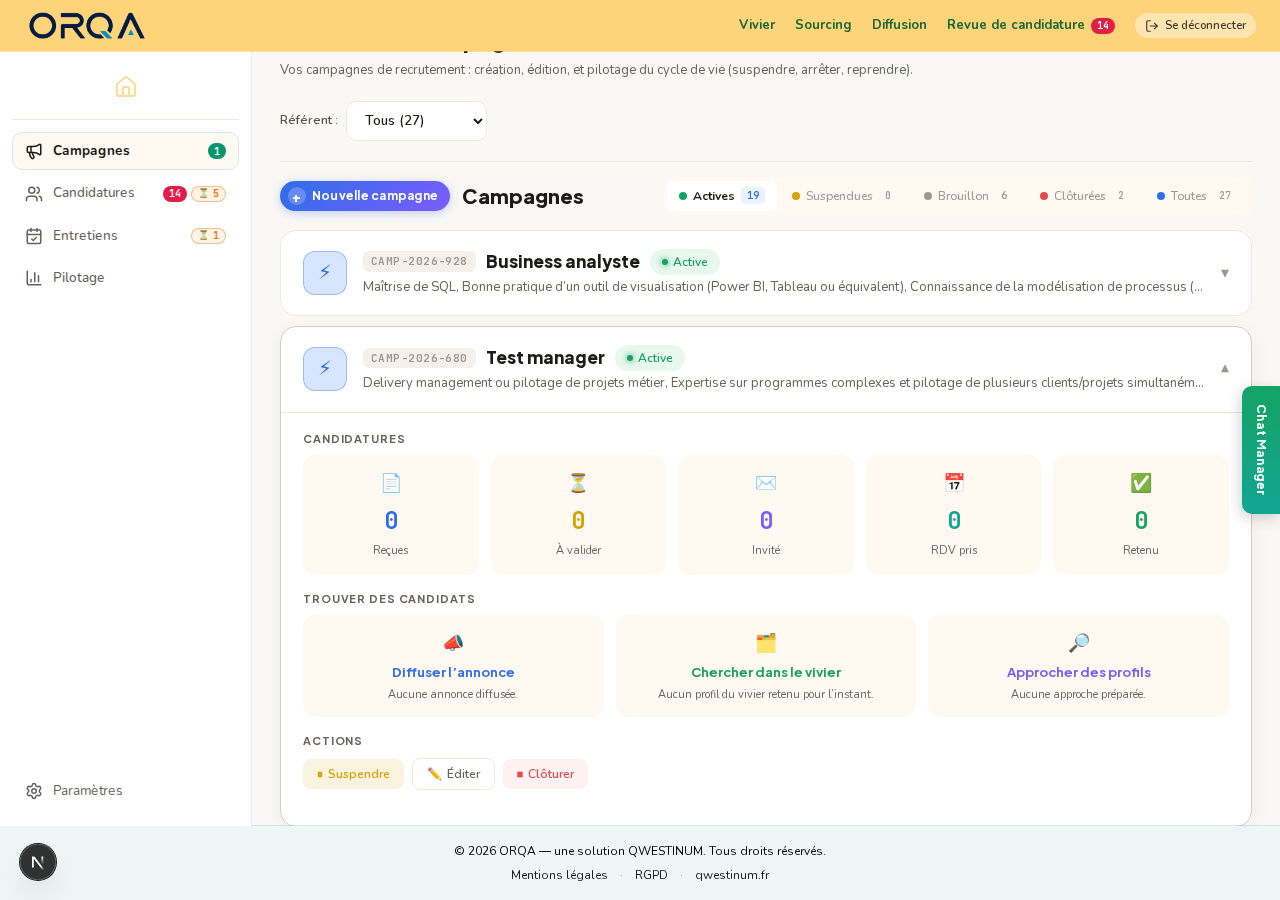
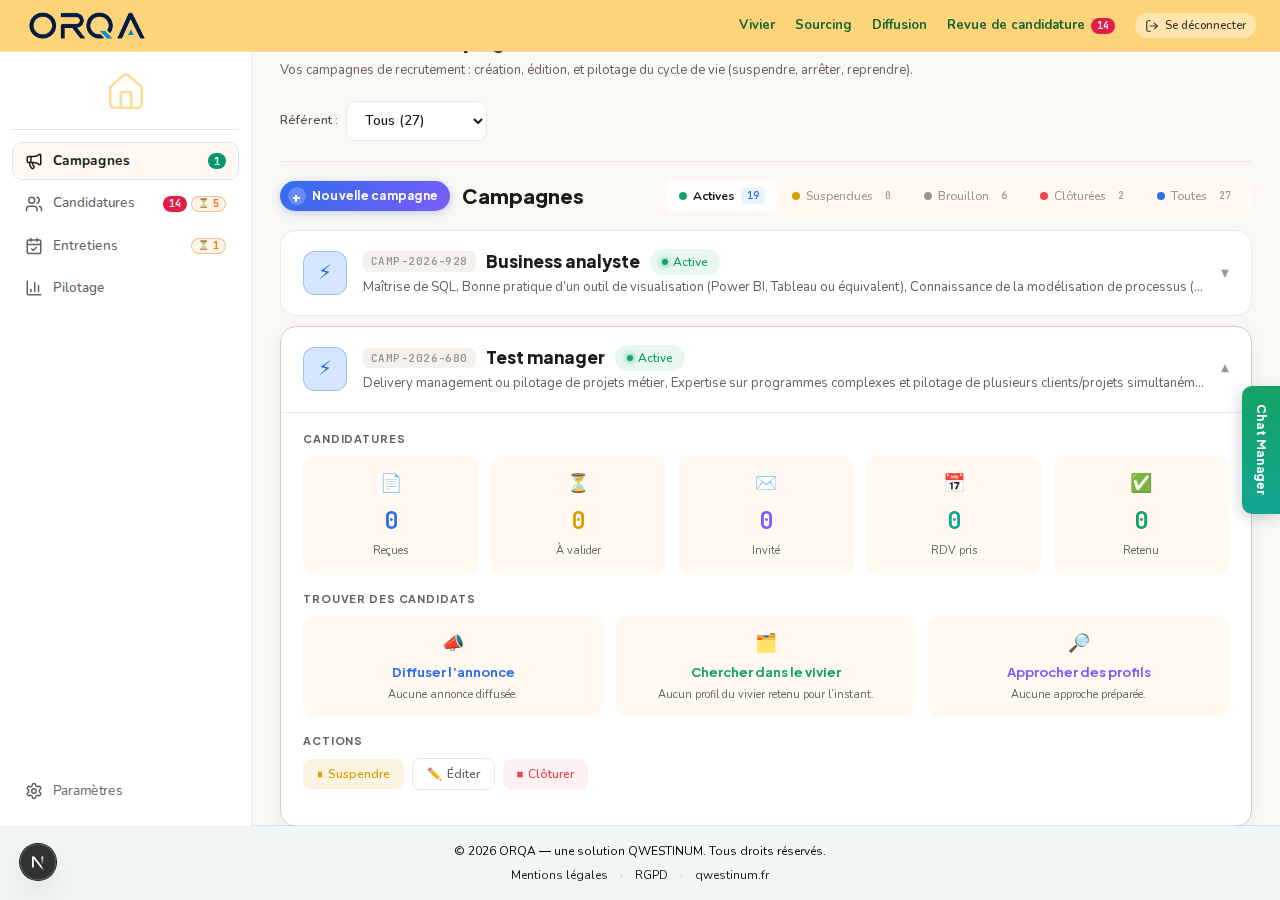
fix(ux): l'icône « Aujourd'hui » triple de volume — 24 px → 42 px
VOLUME triplé, donc CÔTÉ × √3 : 24 → 42 px. Tripler le côté (72 px) ne
tiendrait pas — la colonne repliée fait 64 px de large, 48 une fois ses
marges ôtées.

⚠ Le trait s'AFFINE à mesure que l'icône grandit (2,8 → 1,9 à l'état
actif). Gardé tel quel, il aurait épaissi avec elle et transformé le
contour en pictogramme presque plein : à 42 px, un trait de 2,8 remplit
la maison au lieu de la dessiner. Le contraste de la teinte (#fedc96,
1,32:1 sur blanc) n'y aurait pas gagné non plus — une masse pâle se
distingue moins bien qu'un contour net.

Vérifié aux deux largeurs : dépliée (252 px) et repliée (64 px).

2976 tests verts · 49 tests de clic verts · typecheck propre.

Changed region(s): [[0.0, 0.0933, 0.1875, 0.3422]]

diff --git a/src/components/workspace/WorkspaceSidebar.tsx b/src/components/workspace/WorkspaceSidebar.tsx
@@ -186,13 +186,19 @@ function Entree({
         // l'atténuer rendait l'icône quasi invisible — or c'est la SEULE
         // chose qui désigne cette entrée, elle n'a pas de libellé. Le poids du
         // trait suffit à marquer l'état, et l'infobulle porte le nom.
-        className="flex items-center justify-center rounded-[10px] px-3 py-2 transition max-[1099px]:px-0"
+        className="flex items-center justify-center rounded-[10px] px-3 py-1 transition max-[1099px]:px-0"
         style={{ color: COULEUR_ACCUEIL }}
       >
+        {/* ⚠ VOLUME TRIPLÉ, donc côté × √3 : 24 px → 42 px. Tripler le CÔTÉ
+            (72 px) ne tiendrait pas — la colonne repliée fait 64 px de large,
+            48 une fois ses marges ôtées.
+            Le trait s'affine à mesure que l'icône grandit : gardé à 2,8, il
+            aurait épaissi avec elle et l'aurait transformée en pictogramme
+            plein. */}
         <Icone
           aria-hidden
-          className="h-[24px] w-[24px] shrink-0"
-          strokeWidth={actif ? 2.8 : 2}
+          className="h-[42px] w-[42px] shrink-0"
+          strokeWidth={actif ? 1.9 : 1.5}
         />
       </Link>
     );
